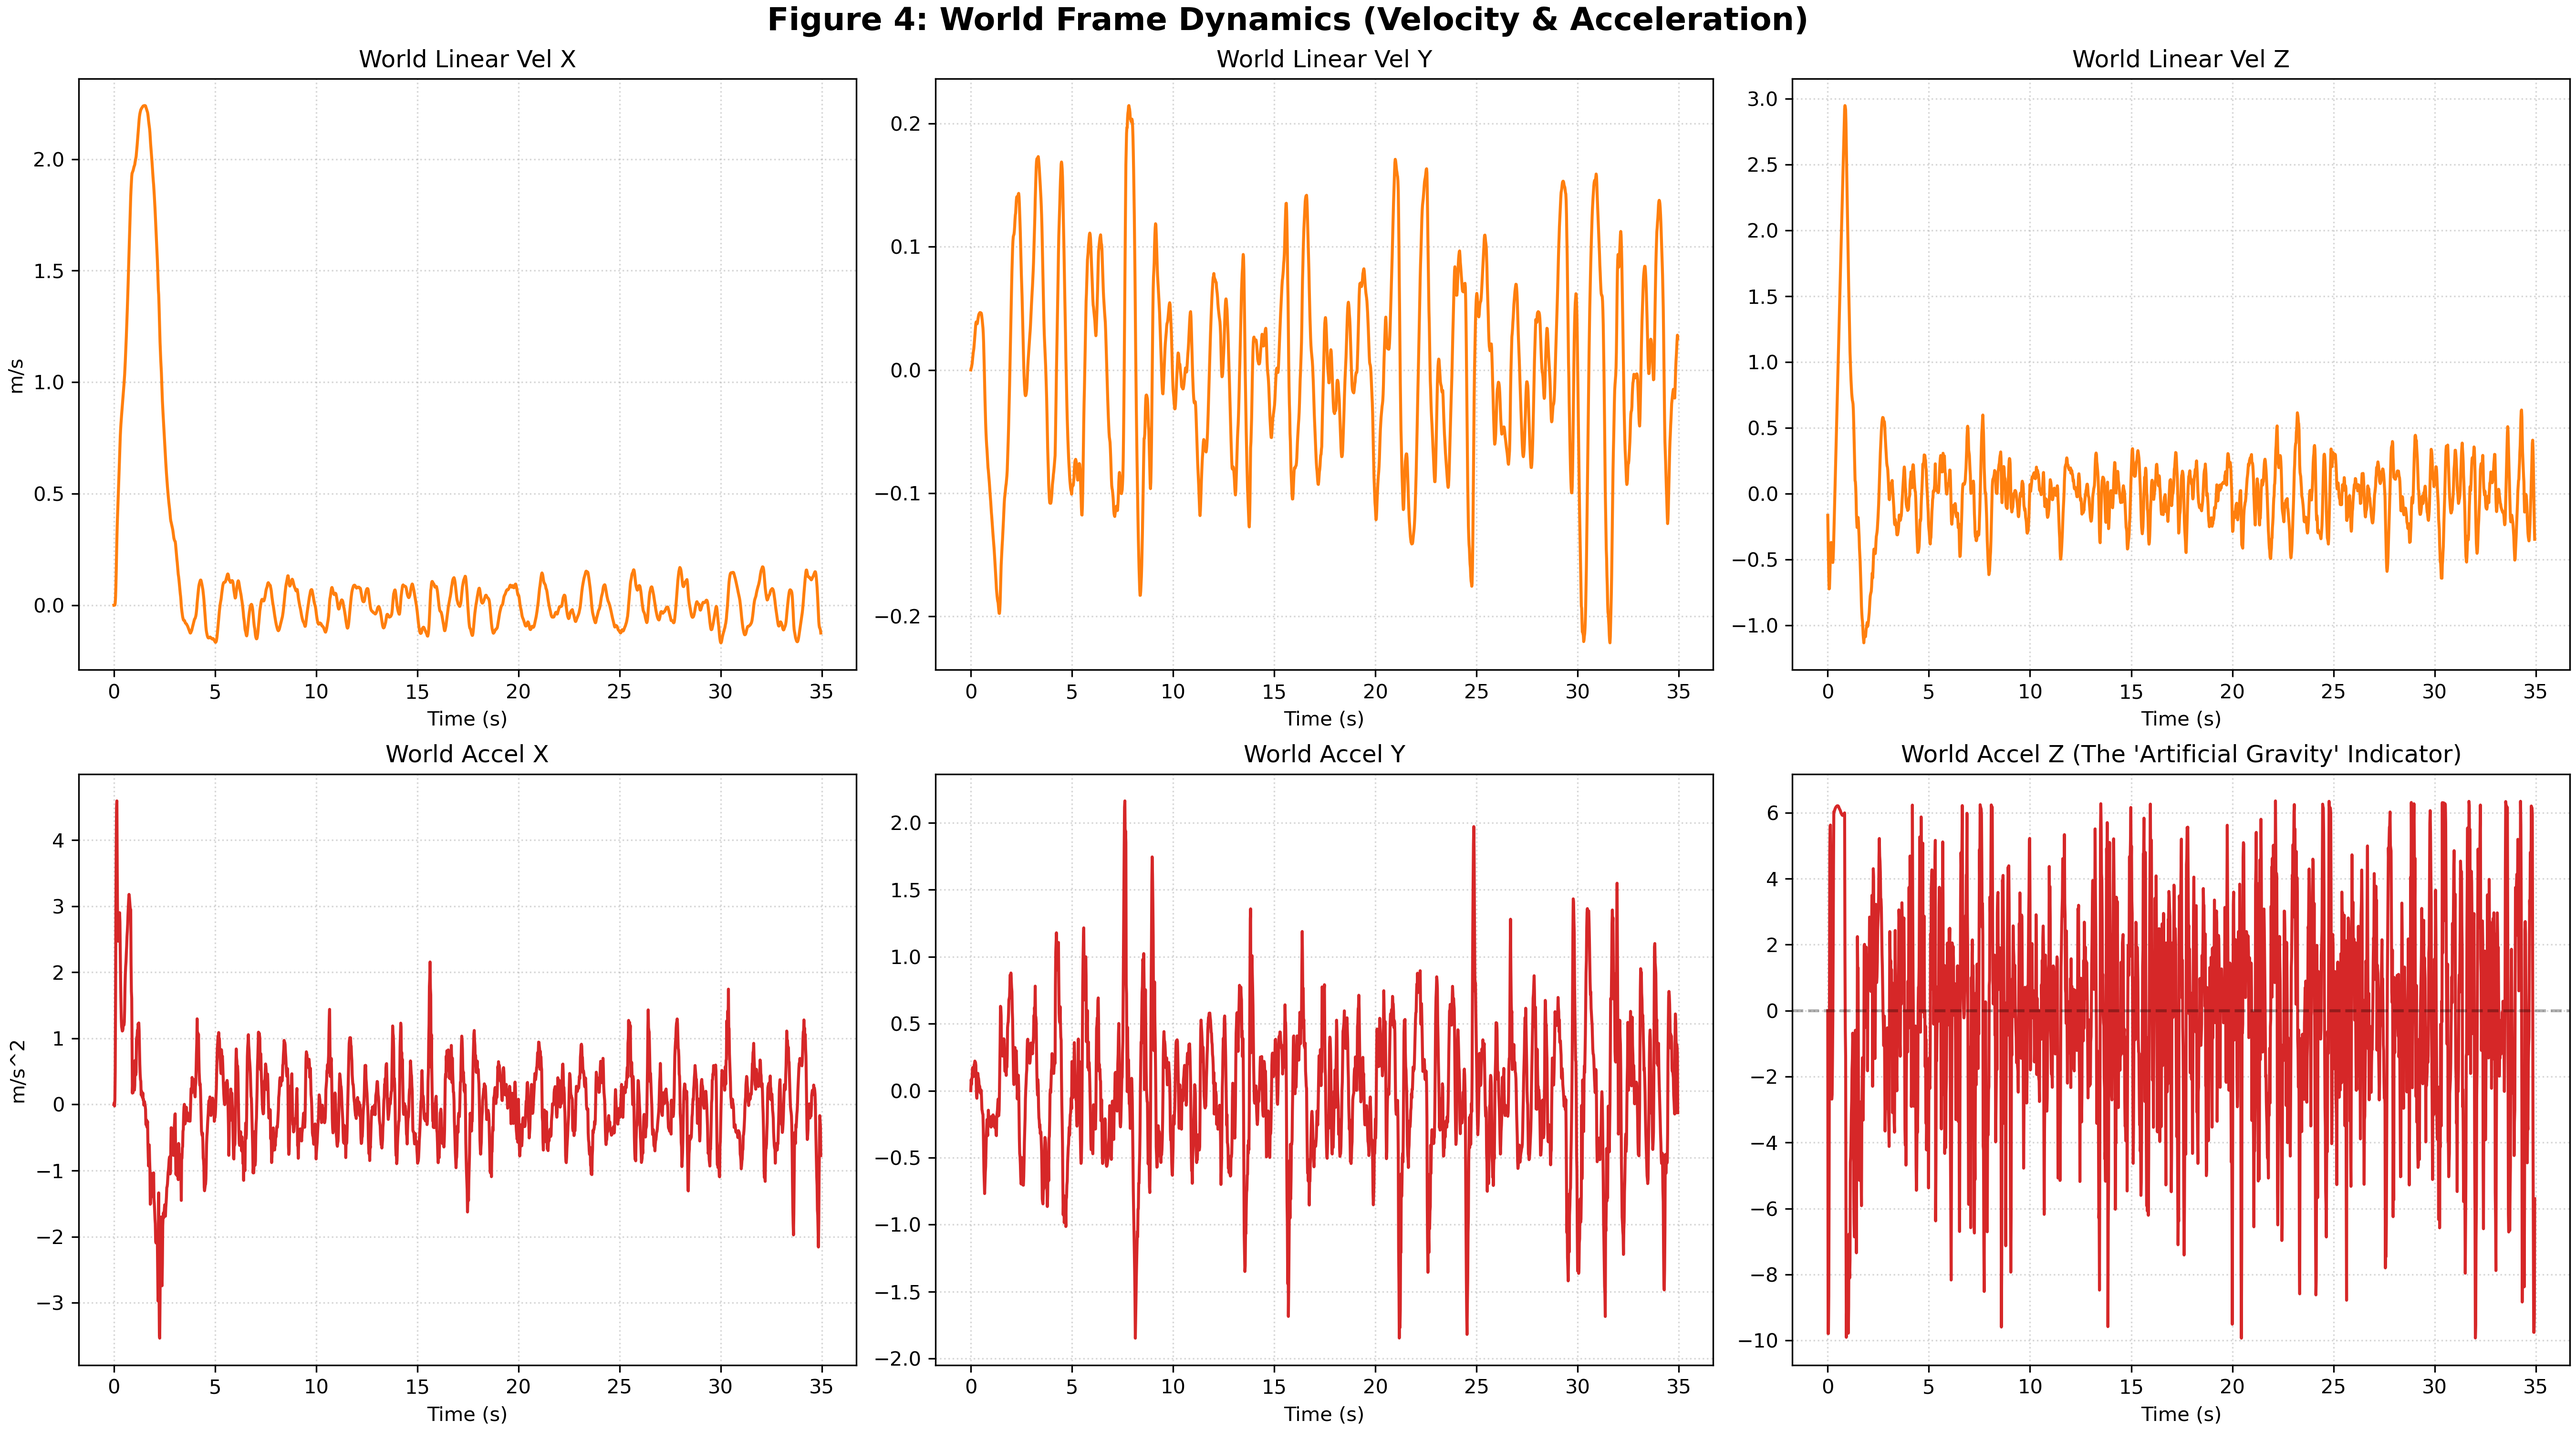
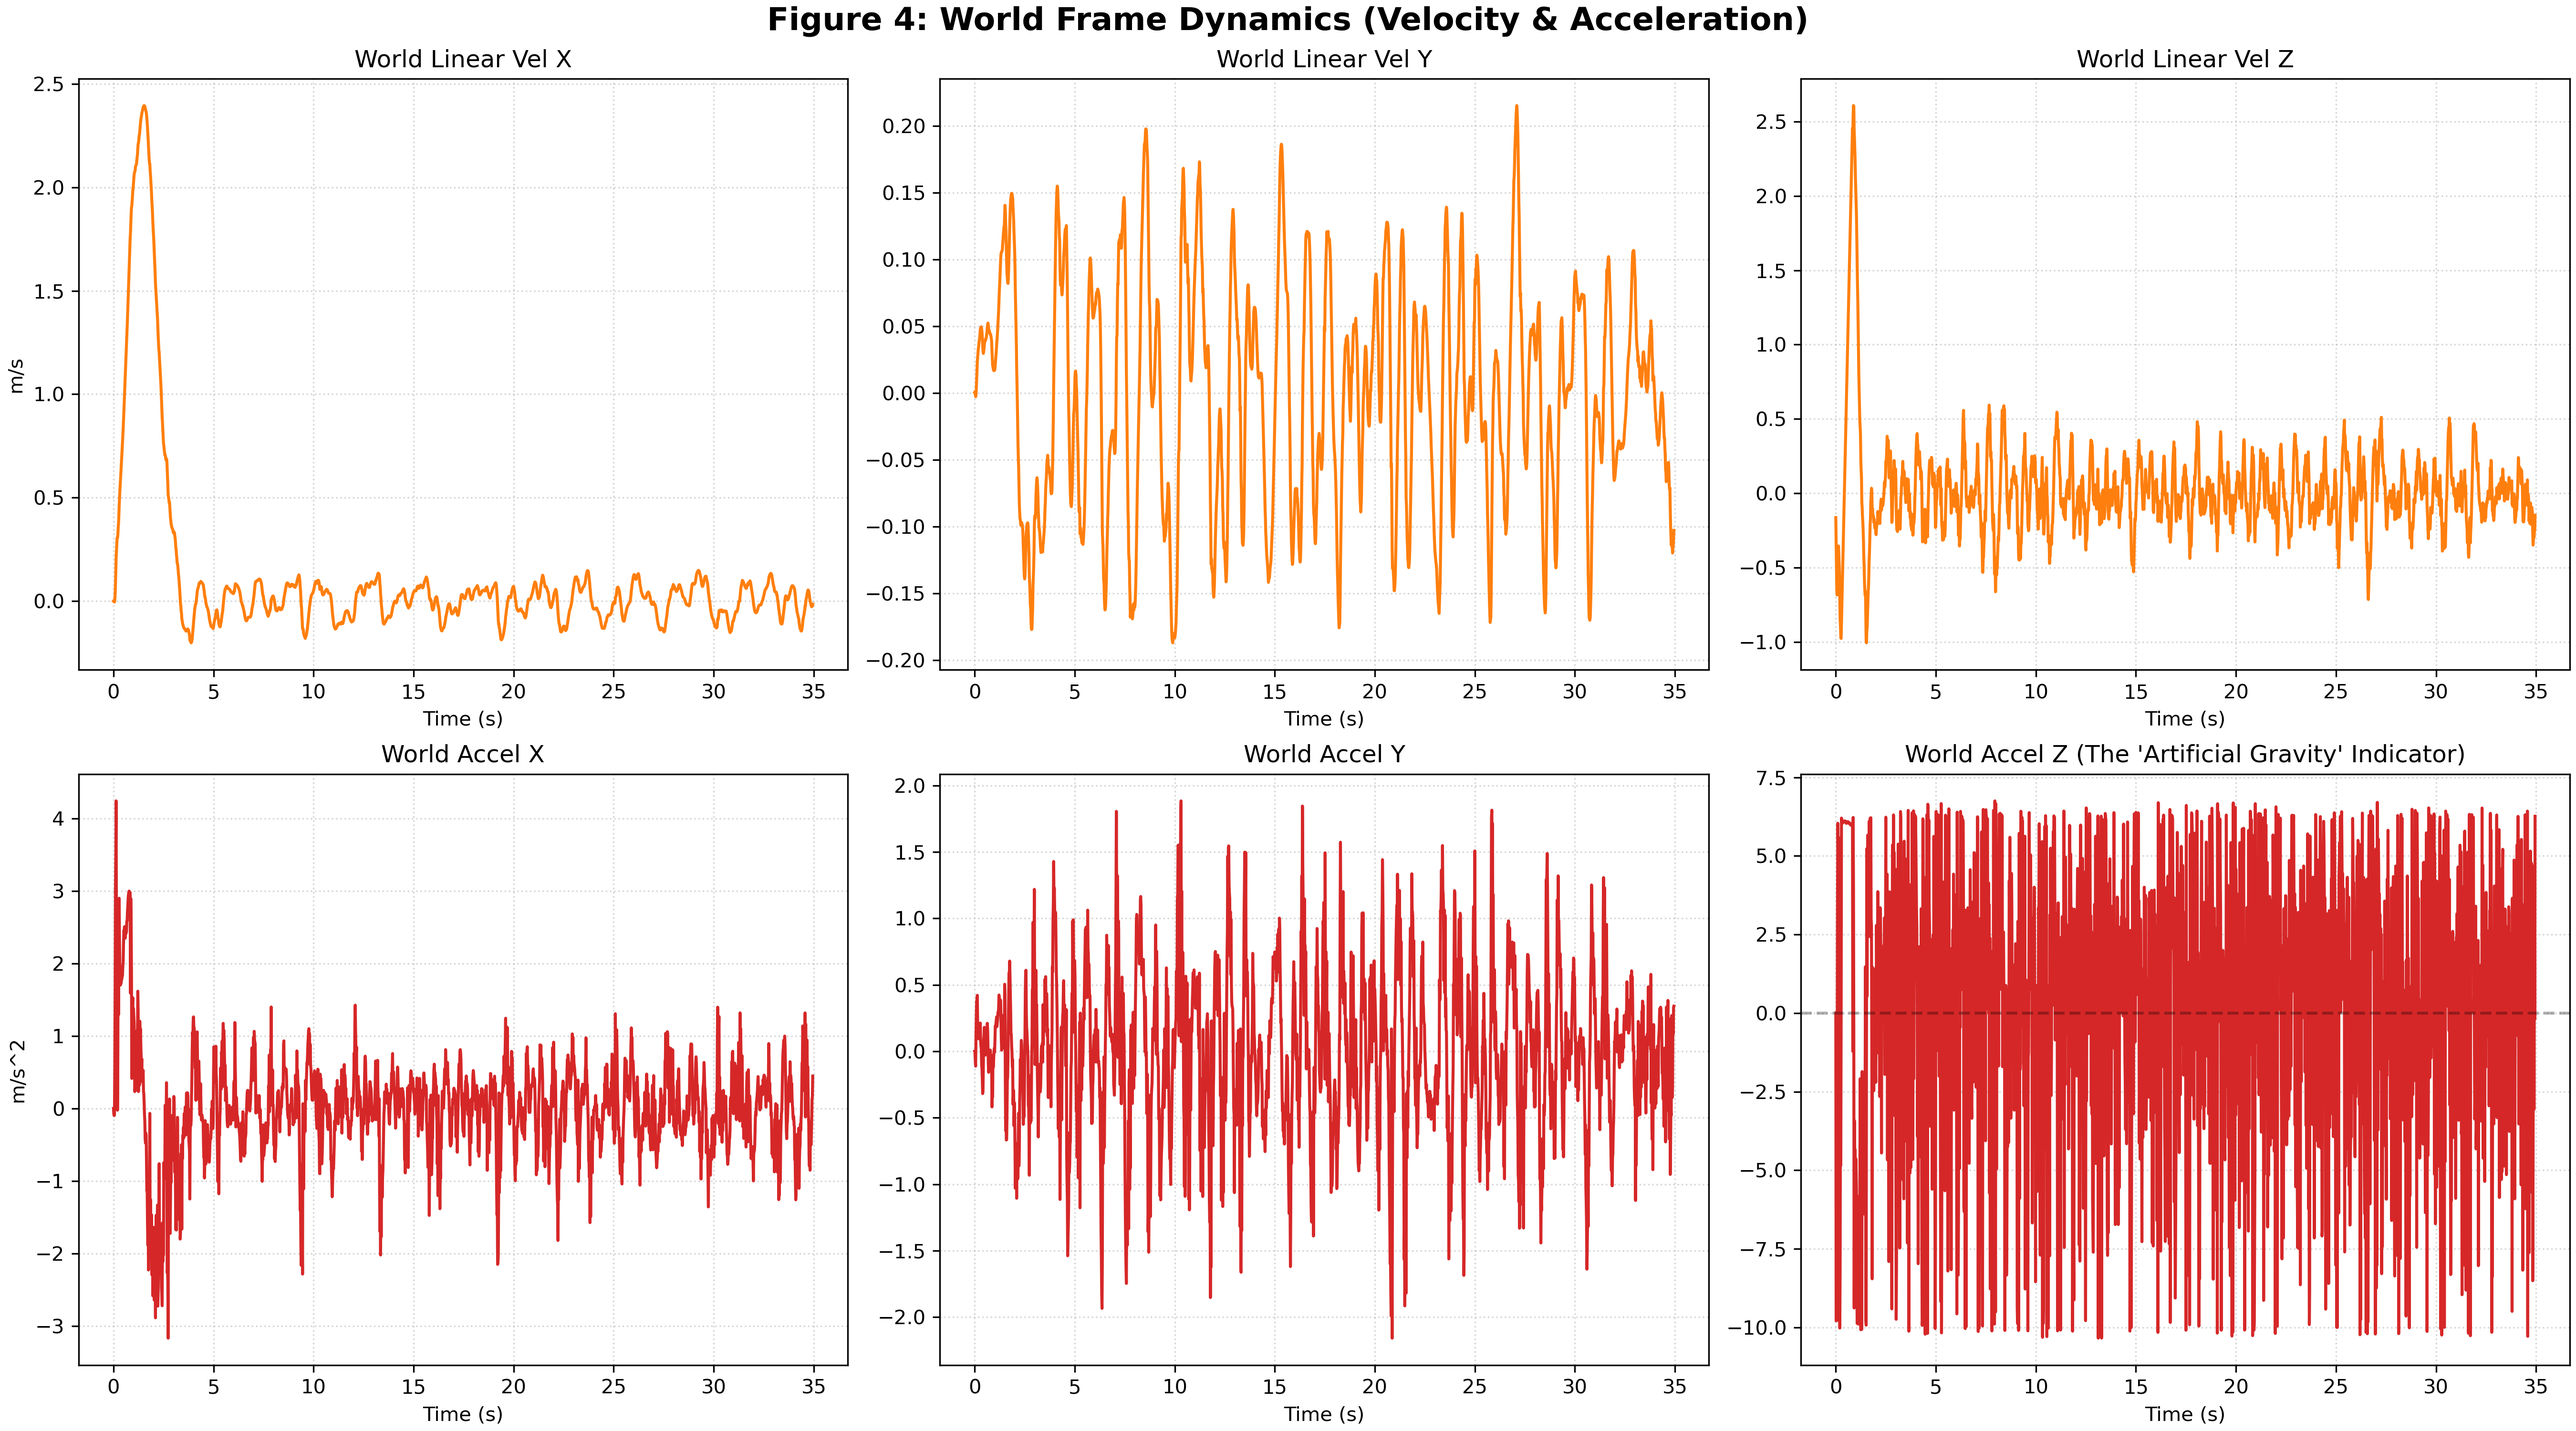
5.1:Sim2Real_moment_scale_z降到 0.12theta_dot_obs加低通

diff --git a/source/uav_payload_lab/uav_payload_lab/tasks/direct/uav_payload_meta/meta_uav_env.py b/source/uav_payload_lab/uav_payload_lab/tasks/direct/uav_payload_meta/meta_uav_env.py
@@ -120,6 +120,8 @@ class UavPayloadMetaEnv(DirectRLEnv):
         # noisy obs history (only for policy observation)
         self._obs_prev_tilt_deg = None
         self._obs_has_prev_tilt = None
+        self._obs_w_deg_filt = None
+        self._obs_has_prev_w = None
         # add handle for debug visualization (this is set to a valid handle inside set_debug_vis)
         self.set_debug_vis(self.cfg.debug_vis)
         # Wind disturbance module (optional)
@@ -145,8 +147,11 @@ class UavPayloadMetaEnv(DirectRLEnv):
         self._raw_actions = actions.clone()
         self._actions = actions.clone().clamp(-1.0, 1.0)
         self._thrust[:, 0, 2] = self._F_max * (self._actions[:, 0] + 1.0) / 2.0
-        self._moment[:, 0, :] = self.cfg.moment_scale * self._actions[:, 1:]
-        # [新增] wind state update (OU + gust), store wind accel in world frame
+        # tau_x, tau_y
+        self._moment[:, 0, 0:2] = self.cfg.moment_scale_xy * self._actions[:, 1:3]
+
+        # tau_z (a3) 单独更小
+        self._moment[:, 0, 2] = self.cfg.moment_scale_z * self._actions[:, 3]        # [新增] wind state update (OU + gust), store wind accel in world frame
         self._wind_step(self.step_dt)
 
     def _apply_action(self):
@@ -296,12 +301,28 @@ class UavPayloadMetaEnv(DirectRLEnv):
                 )
 
             delta_tilt_obs = tilt_deg_obs - self._obs_prev_tilt_deg
-            w_deg_obs = torch.where(
+            w_deg_obs_raw = torch.where(
                 self._obs_has_prev_tilt.unsqueeze(-1),
                 delta_tilt_obs / max(self.step_dt, 1e-6),
                 torch.zeros_like(delta_tilt_obs),
             )
 
+            if self._obs_w_deg_filt is None:
+                self._obs_w_deg_filt = torch.zeros_like(w_deg_obs_raw)
+                self._obs_has_prev_w = torch.zeros(
+                    self.num_envs, dtype=torch.bool, device=self.device
+                )
+
+            alpha = float(self.cfg.obs_theta_dot_lpf_alpha)
+
+            w_deg_obs = torch.where(
+                self._obs_has_prev_w.unsqueeze(-1),
+                alpha * self._obs_w_deg_filt + (1.0 - alpha) * w_deg_obs_raw,
+                w_deg_obs_raw,
+            )
+
+            self._obs_w_deg_filt = w_deg_obs.clone()
+            self._obs_has_prev_w[:] = True
             self._obs_prev_tilt_deg = tilt_deg_obs.clone()
             self._obs_has_prev_tilt[:] = True
 
@@ -585,6 +606,10 @@ class UavPayloadMetaEnv(DirectRLEnv):
             self._obs_prev_tilt_deg[env_ids] = 0.0
         if isinstance(self._obs_has_prev_tilt, torch.Tensor):
             self._obs_has_prev_tilt[env_ids] = False
+        if isinstance(self._obs_w_deg_filt, torch.Tensor):
+            self._obs_w_deg_filt[env_ids] = 0.0
+        if isinstance(self._obs_has_prev_w, torch.Tensor):
+            self._obs_has_prev_w[env_ids] = False
         # 8. 父类逻辑 (必须调用)
         super()._reset_idx(env_ids)
         

diff --git a/source/uav_payload_lab/uav_payload_lab/tasks/direct/uav_payload_meta/meta_uav_env_cfg.py b/source/uav_payload_lab/uav_payload_lab/tasks/direct/uav_payload_meta/meta_uav_env_cfg.py
@@ -131,8 +131,8 @@ class UavPayloadMetaEnvCfg(DirectRLEnvCfg):
     # robot（quadcopter）
     robot: ArticulationCfg = IRIS_PAYLOAD_CFG.replace(prim_path="/World/envs/env_.*/Robot")
     thrust_to_weight = 1.9 #无量纲参数，意思是“最大推力大概是机重的多少倍”
-    moment_scale = 0.4 #$\tau = J \cdot \alpha$   $$\tau_{max} = 0.01 \, (\text{kg}\cdot\text{m}^2) \times 20 \, (\text{rad/s}^2) = \mathbf{0.2 \, \text{Nm}}$$
-    
+    moment_scale_xy = 0.4 #$\tau = J \cdot \alpha$   $$\tau_{max} = 0.01 \, (\text{kg}\cdot\text{m}^2) \times 20 \, (\text{rad/s}^2) = \mathbf{0.2 \, \text{Nm}}$$
+    moment_scale_z = 0.12
     # 绳长（m），暂时手动指定；后续可改为从 usd 读取 rope 可视长度
     rope_length_range = (0.3, 0.8)  # 绳长随机范围 (米)
     
@@ -210,7 +210,7 @@ class UavPayloadMetaEnvCfg(DirectRLEnvCfg):
     # μ(e)->z 的网络结构（Phase1 联训）
     rma_mu_hidden_dims = (64, 64)
     rma_activation = "elu"
-    
+
     # ---------------------------------------------------------------------
     # Observation noise (Sim2Real)
     # ---------------------------------------------------------------------
@@ -218,6 +218,7 @@ class UavPayloadMetaEnvCfg(DirectRLEnvCfg):
 
     # 对应 obs 的 17 维里这些块
     obs_noise_e_load_std_m = 0.02      # e_load (m)
-    obs_noise_tilt_std_deg = 0.7       # theta_x, theta_y (deg)
+    obs_noise_tilt_std_deg = 0.5       # theta_x, theta_y (deg)
+    obs_theta_dot_lpf_alpha = 0.5
     obs_noise_v_b_std_mps = 0.05       # body linear velocity (m/s)
     obs_noise_w_b_std_rps = 0.03       # body angular velocity (rad/s)

diff --git a/source/uav_payload_lab/uav_payload_lab/tasks/direct/uav_payload_lab/plot/IsaaclabPlot12.5.py b/source/uav_payload_lab/uav_payload_lab/tasks/direct/uav_payload_lab/plot/IsaaclabPlot12.5.py
@@ -10,7 +10,7 @@ import math
 # === Analysis window (seconds) ===
 TIME_WINDOW_S = 35   # set None to disable cropping
 
-simulation_data_path = "/home/shenji/uav_payload_lab/uav_payload_lab/logs/rsl_rl/Encoder_DataCollectionMLW/2026-03-10_23-19-14/payload_data.csv" 
+simulation_data_path = "/home/shenji/uav_payload_lab/uav_payload_lab/logs/rsl_rl/Encoder_DataCollectionMLW/2026-03-12_12-59-53/payload_data.csv" 
 paper_data_path = "/home/shenji/uav_payload_lab/uav_payload_lab/source/uav_payload_lab/uav_payload_lab/tasks/direct/uav_payload_lab/plot/普通控制器vs.heanhua.csv" 
 
 # 坐标系校正 (World -> Task)
